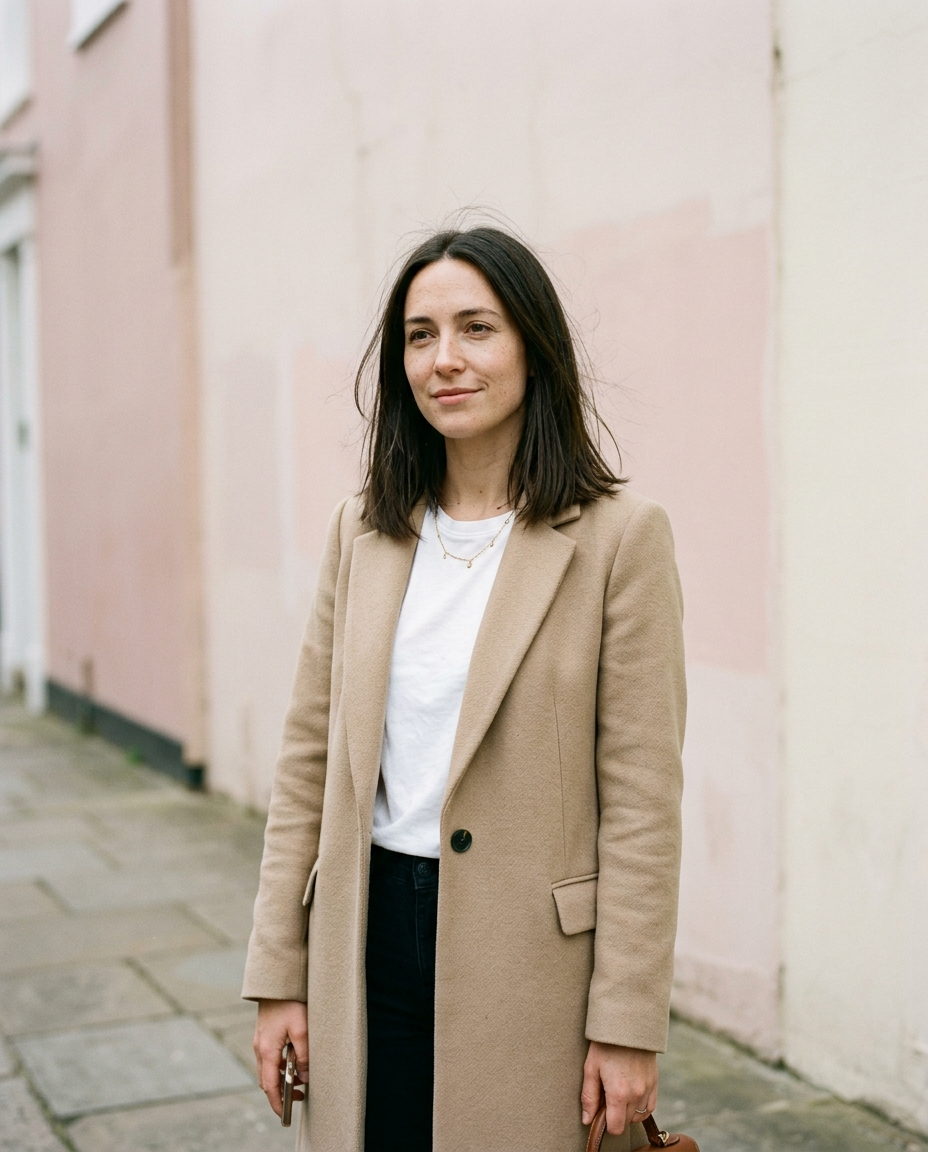
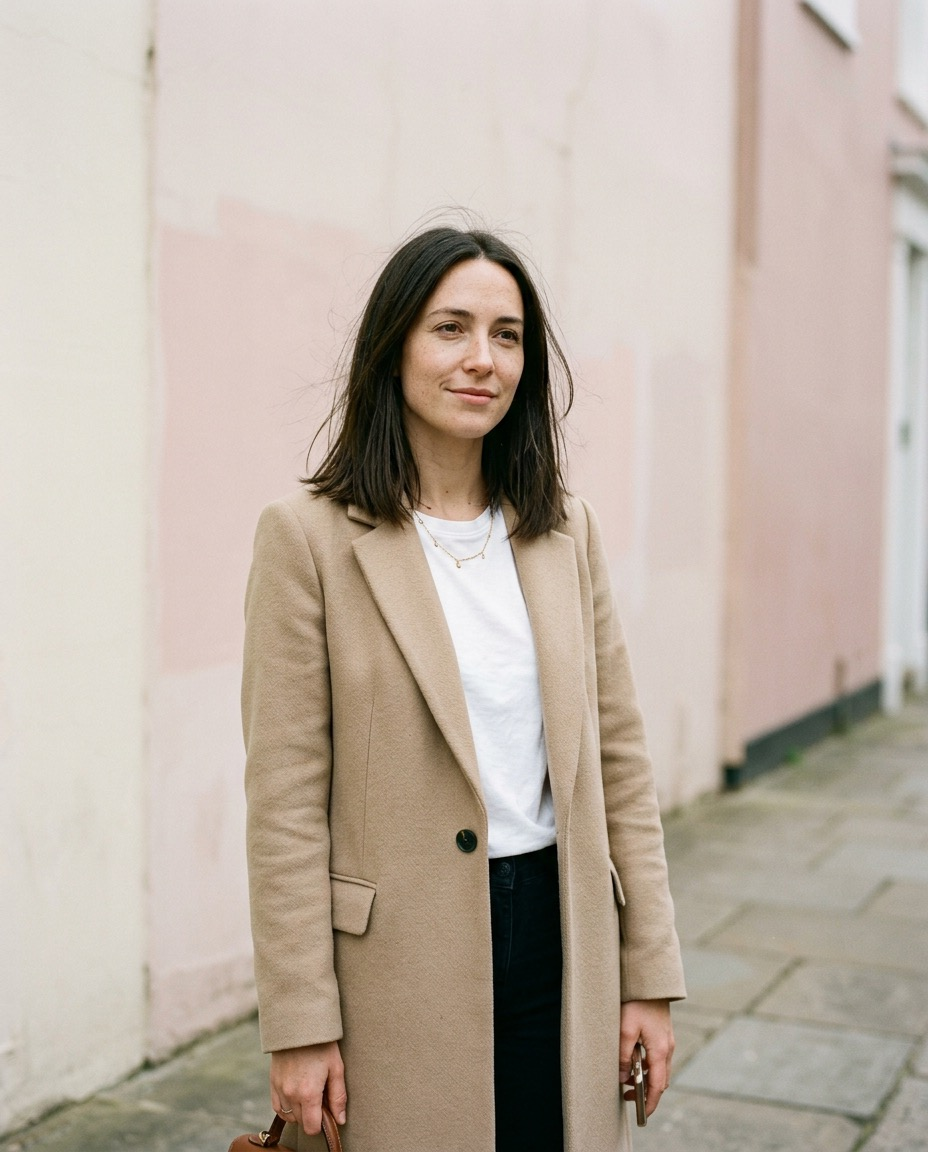
Face-centred portrait crops, mirror Alisa photo for varied gaze

diff --git a/components/Portrait.tsx b/components/Portrait.tsx
@@ -7,16 +7,17 @@ export default function Portrait({
   className = "",
   sizes = "(min-width: 768px) 33vw, 100vw",
   priority = false,
-  face,
+  crop,
 }: {
   blogger: Blogger;
   className?: string;
   sizes?: string;
   priority?: boolean;
-  /** Crop tightly around the face (for round avatars). */
-  face?: { x: number; y: number; zoom: number };
+  /** "avatar": tight crop for round avatars. "portrait": 4:5 frame with the face at a steady spot. */
+  crop?: "avatar" | "portrait";
 }) {
-  const { hue, photo, name } = blogger;
+  const { hue, photo, name, face } = blogger;
+  const framing = face && crop ? faceCrop(face, crop) : null;
   return (
     <div
       className={`relative overflow-hidden ${className}`}
@@ -25,15 +26,16 @@ export default function Portrait({
       }}
     >
       {photo ? (
-        face ? (
+        framing ? (
           <Image
             src={photo}
             alt={name}
             width={928}
             height={1152}
-            sizes={sizes}
+            priority={priority}
+            sizes={crop === "portrait" ? "(min-width: 640px) 928px, 100vw" : sizes}
             className="absolute max-w-none"
-            style={faceCrop(face)}
+            style={framing}
           />
         ) : (
           <Image src={photo} alt={name} fill sizes={sizes} priority={priority} className="object-cover" />
@@ -48,12 +50,26 @@ export default function Portrait({
   );
 }
 
-/** Places the 4:5 image so the face sits at the centre of a square box, scaled by `zoom`. */
-function faceCrop({ x, y, zoom }: { x: number; y: number; zoom: number }) {
+/**
+ * Positions the 4:5 photo inside its box.
+ * avatar: face centred in a square, scaled by `zoom`.
+ * portrait: face at 50% / 36% of a 4:5 frame, zoomed so faces end up a similar size.
+ */
+function faceCrop({ x, y, zoom }: { x: number; y: number; zoom: number }, mode: "avatar" | "portrait") {
+  if (mode === "avatar") {
+    return {
+      width: `${zoom * 100}%`,
+      height: `${zoom * 125}%`,
+      left: `${(0.5 - (x / 100) * zoom) * 100}%`,
+      top: `${(0.5 - (y / 100) * 1.25 * zoom) * 100}%`,
+    };
+  }
+  const z = Math.max(1, zoom * 0.6);
+  const clamp = (v: number) => Math.min(0, Math.max(1 - z, v));
   return {
-    width: `${zoom * 100}%`,
-    height: `${zoom * 125}%`,
-    left: `${(0.5 - (x / 100) * zoom) * 100}%`,
-    top: `${(0.5 - (y / 100) * 1.25 * zoom) * 100}%`,
+    width: `${z * 100}%`,
+    height: `${z * 100}%`,
+    left: `${clamp(0.5 - (x / 100) * z) * 100}%`,
+    top: `${clamp(0.36 - (y / 100) * z) * 100}%`,
   };
 }

diff --git a/lib/bloggers.ts b/lib/bloggers.ts
@@ -102,7 +102,7 @@ export const bloggers: Blogger[] = [
     topics: ["Капсульний гардероб", "Образи", "Б'юті"],
     hue: 335,
     photo: "/images/alisa.jpeg",
-    face: { x: 49, y: 27, zoom: 3.6 },
+    face: { x: 51, y: 27, zoom: 3.6 },
     posts: [
       { id: "l1", title: "Осінній капсульний гардероб", caption: "Дванадцять речей, з яких збирається тридцять образів.", likes: "24.6K", comments: 712, date: "сьогодні" },
       { id: "l2", title: "Базове пальто", caption: "Як вибрати модель, яка прослужить п'ять сезонів.", likes: "16.2K", comments: 358, date: "3 дні тому" },

diff --git a/components/ProfileView.tsx b/components/ProfileView.tsx
@@ -57,6 +57,7 @@ export default function ProfileView({ blogger }: { blogger: Blogger }) {
         <section data-aos="fade-up" className="rounded-3xl border border-line bg-surface p-4 sm:p-6 lg:p-8">
           <div className="grid grid-cols-[7.5rem_1fr] gap-x-4 gap-y-5 sm:grid-cols-[13rem_1fr] sm:gap-x-8 sm:gap-y-0 lg:grid-cols-[16rem_1fr] lg:gap-x-12">
             <Portrait
+                crop="portrait"
               blogger={blogger}
               priority
               sizes="(min-width: 1024px) 256px, (min-width: 640px) 208px, 120px"

diff --git a/components/BloggerCardTall.tsx b/components/BloggerCardTall.tsx
@@ -22,6 +22,7 @@ export default function BloggerCardTall({ blogger, index }: { blogger: Blogger; 
       </div>
       <div className="relative aspect-[4/5] overflow-hidden">
         <Portrait
+          crop="portrait"
           blogger={blogger}
           sizes="(min-width: 896px) 448px, (min-width: 640px) 50vw, 100vw"
           className="size-full transition-transform duration-700 ease-out group-hover:scale-105"

diff --git a/components/Avatar.tsx b/components/Avatar.tsx
@@ -18,7 +18,7 @@ export default function Avatar({
       blogger={blogger}
       sizes={`${Math.ceil(size * (blogger.face?.zoom ?? 1))}px`}
       className="size-full rounded-full"
-      face={blogger.face}
+      crop="avatar"
     />
   );
   if (!ring) {
